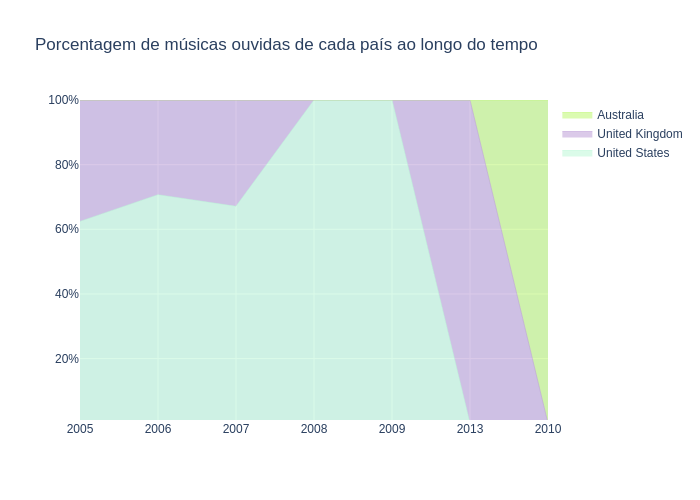
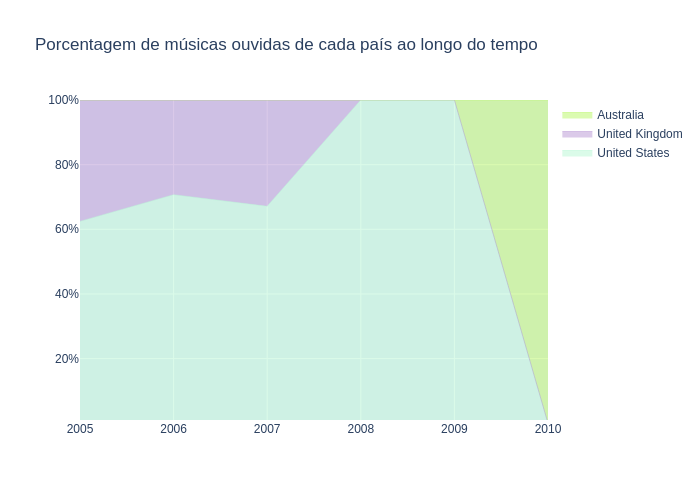
final

diff --git a/main.py b/main.py
@@ -66,7 +66,7 @@ def one_scatter(df, column, filename):
     fig.update_layout(
         showlegend=True,
         xaxis_type='category',
-        title_text="Porcentagem de músicas ouvidas de cada artista (dentre os top 10 artistas) ao longo do tempo",
+        title_text="Porcentagem de músicas ouvidas de cada artista (dentre os top 10 artistas) no tempo",
         yaxis=dict(
             type='linear',
             range=[1, 100],
@@ -142,26 +142,27 @@ def two_bar_two(df):
 
 
 
-def three(df):
-
-    df = df.sort_values('created_at')
-    first = int(df.head(1)['followers_count'])
-    last = int(df.tail(1)['followers_count'])
-    user_id = str(df.head(1)['user_id'])
-    total = len(df)
-    ngrams_list = df['ngrams'].to_numpy().flatten().tolist()
-    ngrams_list = np.concatenate(ngrams_list)
-    df_ngrams = pd.DataFrame({'ngrams': ngrams_list, 'teste': ngrams_list})
-    df_ngrams = df_ngrams.groupby('ngrams').count().reset_index().sort_values('teste', ascending=False)
-    ngrams_list = df_ngrams.head(5)['ngrams'].tolist()
-    added = last - first
-
-    return pd.DataFrame({'user_id': [user_id], 'new_followers': [added], 'total_tweets': [total], 'ngrams': [str(ngrams_list)]})
+# def three(df):
+#
+#     df = df.sort_values('created_at')
+#     first = int(df.head(1)['followers_count'])
+#     last = int(df.tail(1)['followers_count'])
+#     user_id = str(df.head(1)['user_id'])
+#     total = len(df)
+#     ngrams_list = df['ngrams'].to_numpy().flatten().tolist()
+#     ngrams_list = np.concatenate(ngrams_list)
+#     df_ngrams = pd.DataFrame({'ngrams': ngrams_list, 'teste': ngrams_list})
+#     df_ngrams = df_ngrams.groupby('ngrams').count().reset_index().sort_values('teste', ascending=False)
+#     ngrams_list = df_ngrams.head(5)['ngrams'].tolist()
+#     added = last - first
+#
+#     return pd.DataFrame({'user_id': [user_id], 'new_followers': [added], 'total_tweets': [total], 'ngrams': [str(ngrams_list)]})
 
 def three_(df, filename):
     x = df['year'].unique().tolist()
     print("entra", df)
     df = df.head(10)
+    df = df[df['year'] != 2013]
     df = df.sort_values('year')
     artists = df['country'].unique().tolist()
     fig = go.Figure()
@@ -173,6 +174,7 @@ def three_(df, filename):
     for i in range(len(artists)):
         artist = artists[i]
         df_artist = df[df['country'] == artist]
+        df_artist = df_artist.sort_values('year')
         fig.add_trace(go.Scatter(
             x=df_artist['year'].tolist(), y=df_artist['Porcentagem'].tolist(),
             mode='lines',
@@ -215,7 +217,7 @@ def four(df, centers, filename):
     plt.scatter(centers[:, 0], centers[:, 1], s=80, color='black')
     plt.xlabel("Idade do usuário")
     plt.ylabel("Idade da música")
-    plt.title("Agrupamento de usuários com base nas suas idade e na idade das músicas")
+    plt.title("Agrupamento de usuários com base nas suas idades e na idade das músicas")
     fig.savefig(filename)
 
 if __name__ == '__main__':
@@ -240,7 +242,9 @@ if __name__ == '__main__':
     users = users.withColumn('registered', col('registered').substr(9, 10))
     users = users.withColumn('registered', F.to_date(col('registered')))
     users = users.withColumn('duration_years', (col('timestamp') - col('registered')).cast('string').substr(11, 4).cast('int')/360)
+    users.show(1)
 
+    print(users.select('age').dropna().toPandas().describe())
     # Questão 1
     users_1 = users.select('artist', 'timestamp').dropna()
 
@@ -357,4 +361,4 @@ if __name__ == '__main__':
     for center in centers:
         print(center)
 
-    four(predictions.sample(fraction=0.1, seed=1).toPandas(), centers, "four.png")
+    four(predictions.sample(fraction=1., seed=1).toPandas(), centers, "four.png")
